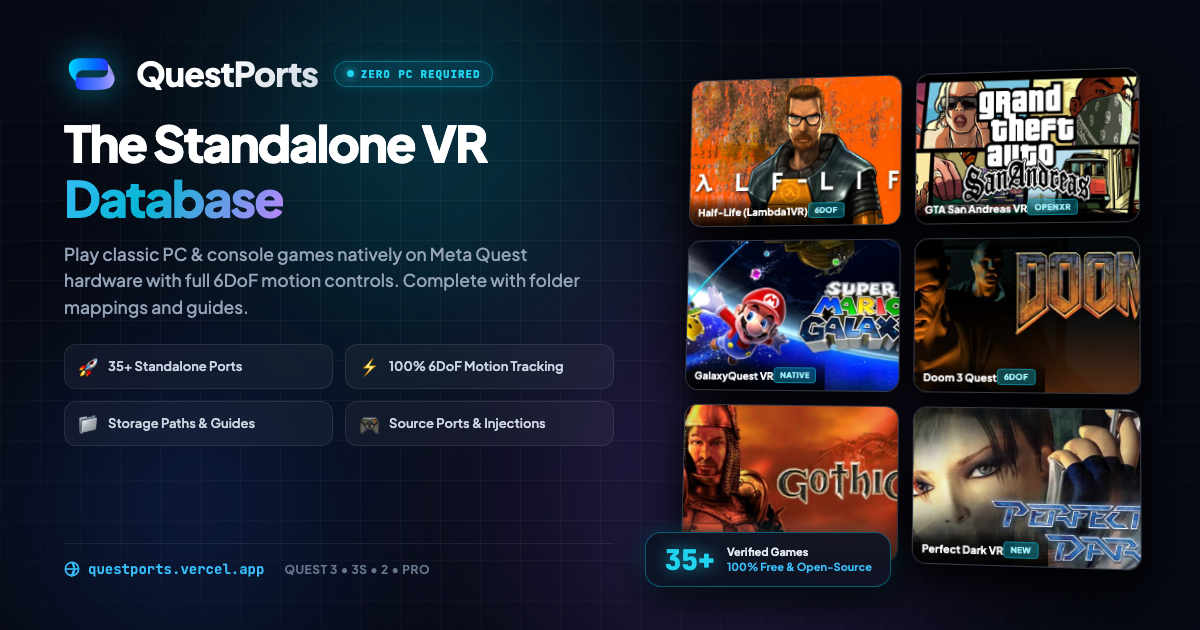
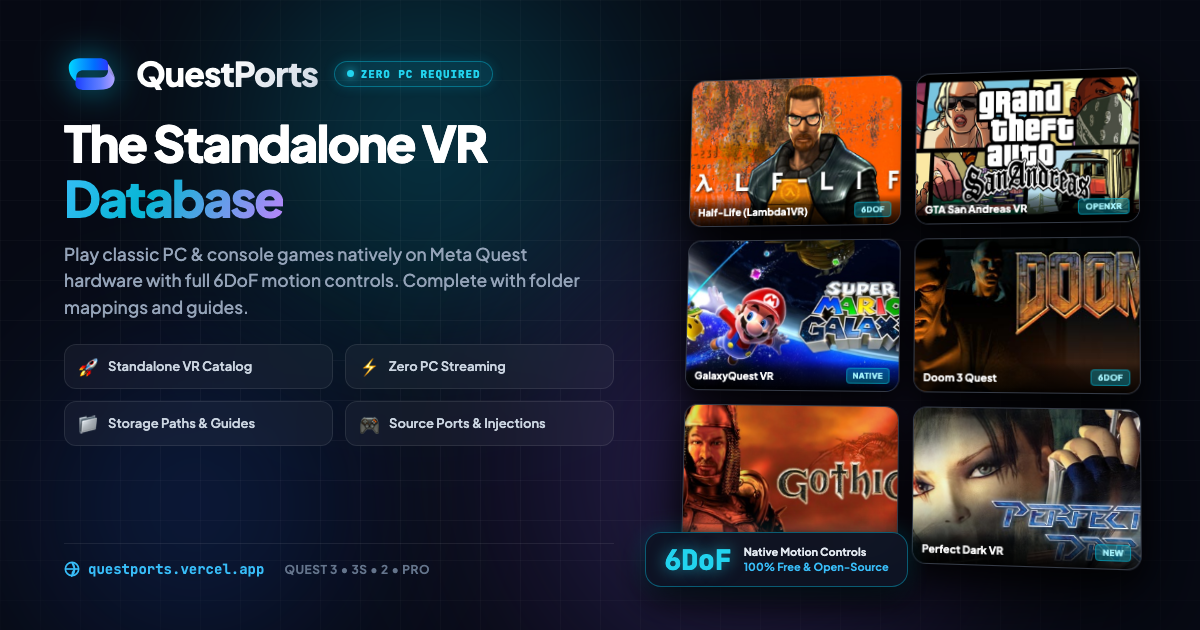
chore: make OG card and meta descriptions evergreen without hardcoded game counts

diff --git a/nuxt.config.ts b/nuxt.config.ts
@@ -20,7 +20,7 @@ export default defineNuxtConfig({
       meta: [
         { charset: 'utf-8' },
         { name: 'viewport', content: 'width=device-width, initial-scale=1' },
-        { name: 'description', content: 'Discover 35+ classic PC & console games running natively in 6DoF VR on Meta Quest. No PC, no cables, zero streaming. Step-by-step install guides & file paths.' },
+        { name: 'description', content: 'Discover classic PC & console games running natively in 6DoF VR on Meta Quest. No PC, no cables, zero streaming. Step-by-step install guides & file paths.' },
         { name: 'theme-color', content: '#06b6d4' },
         
         // Open Graph / Facebook / Discord
@@ -28,7 +28,7 @@ export default defineNuxtConfig({
         { property: 'og:url', content: 'https://questports.vercel.app' },
         { property: 'og:site_name', content: 'QuestPorts' },
         { property: 'og:title', content: 'QuestPorts — The Standalone VR Database' },
-        { property: 'og:description', content: 'Discover 35+ classic PC & console games running natively in 6DoF VR on Meta Quest. Zero PC required. Guides, APK downloads, and internal storage paths.' },
+        { property: 'og:description', content: 'Discover classic PC & console games running natively in 6DoF VR on Meta Quest. Zero PC required. Guides, APK downloads, and internal storage paths.' },
         { property: 'og:image', content: 'https://ccjteoxolasldhfgnoyx.supabase.co/storage/v1/object/public/port-covers/questports-og.png' },
         { property: 'og:image:secure_url', content: 'https://ccjteoxolasldhfgnoyx.supabase.co/storage/v1/object/public/port-covers/questports-og.png' },
         { property: 'og:image:width', content: '1200' },
@@ -39,7 +39,7 @@ export default defineNuxtConfig({
         // Twitter / X / Discord Large Card
         { name: 'twitter:card', content: 'summary_large_image' },
         { name: 'twitter:title', content: 'QuestPorts — The Standalone VR Database' },
-        { name: 'twitter:description', content: 'Discover 35+ classic PC & console games running natively in 6DoF VR on Meta Quest. Zero PC required.' },
+        { name: 'twitter:description', content: 'Discover classic PC & console games running natively in 6DoF VR on Meta Quest. Zero PC required.' },
         { name: 'twitter:image', content: 'https://ccjteoxolasldhfgnoyx.supabase.co/storage/v1/object/public/port-covers/questports-og.png' }
       ],
       link: [

diff --git a/scripts/generate-og-image.html b/scripts/generate-og-image.html
@@ -368,11 +368,11 @@
         <div class="pills-grid">
           <div class="feature-pill">
             <span class="icon">🚀</span>
-            <span>35+ Standalone Ports</span>
+            <span>Standalone VR Catalog</span>
           </div>
           <div class="feature-pill">
             <span class="icon">⚡</span>
-            <span>100% 6DoF Motion Tracking</span>
+            <span>Zero PC Streaming</span>
           </div>
           <div class="feature-pill">
             <span class="icon">📁</span>
@@ -460,9 +460,9 @@
 
       <!-- Floating Stat Bubble -->
       <div class="stat-floating-bubble">
-        <div class="stat-number">35+</div>
+        <div class="stat-number">6DoF</div>
         <div class="stat-text">
-          Verified Games<br>
+          Native Motion Controls<br>
           <span style="color: #38bdf8;">100% Free & Open-Source</span>
         </div>
       </div>
